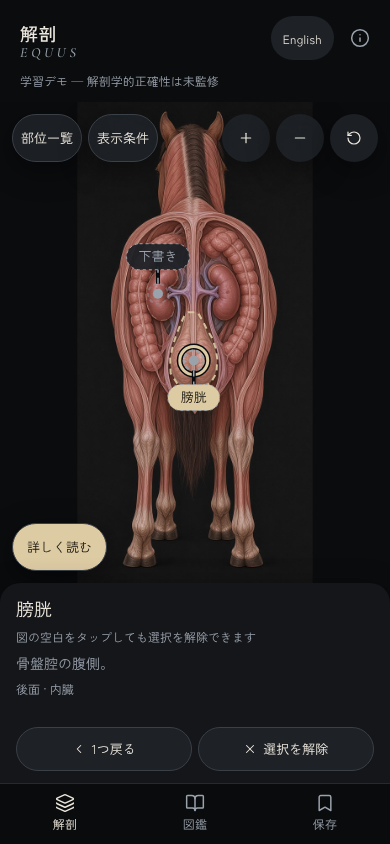
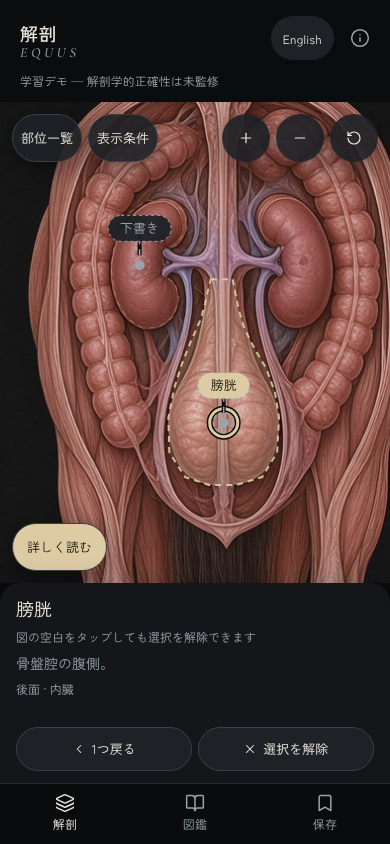
docs(evidence): retake the rear bladder after shots by tapping it in the overview (#215)
Claude-Session: https://claude.ai/code/session_01Cv4a6GTRBmamyWEuPgVasd

diff --git a/e2e/tools/bladder-rear-evidence.spec.ts b/e2e/tools/bladder-rear-evidence.spec.ts
@@ -8,10 +8,13 @@ import { test } from '@playwright/test'
  *     --config playwright.shots.config.ts e2e/tools/bladder-rear-evidence.spec.ts --trace off
  *
  * 「前」は develop の写し、「後」は作業ブランチの写しを同じ手順で撮る。前には後面の膀胱が無いので、その段は飛ばす。
- * 膀胱は体幹の枠の外にあって点が出んので、部位一覧から選ぶ（腎臓の #308 と同じ）。
+ * 膀胱は体幹の枠の中にある（体幹の枠は膀胱の底まで取ってある）。全体表示では場所の点（体幹）が出るだけで、
+ * 部位の点は場所を選んでから出る。そこで、図の上の膀胱そのものを叩いて体幹を選び、出てきた膀胱の点を叩く。
  */
 const OUT = process.env.EQUUS_EVIDENCE_DIR ?? 'test-results/bladder-rear-evidence'
 const PREFIX = process.env.EQUUS_SHOT_PREFIX ?? 'run'
+// 膀胱の上の方の点（切り詰め後の画像座標）。下半分には薄い後肢の札が重なって出るので、札に掛からん所を叩く
+const BLADDER_AT: [number, number] = [290, 580]
 
 test('後面・内臓の膀胱（証跡撮り）', async ({ page }) => {
   test.setTimeout(120_000)
@@ -24,13 +27,31 @@ test('後面・内臓の膀胱（証跡撮り）', async ({ page }) => {
   await page.waitForTimeout(500)
   await page.screenshot({ path: `${OUT}/${PREFIX}-rear-organs-390.png`, fullPage: true })
 
-  // 膀胱は体幹の枠の外にあって点が出んので、部位一覧から選ぶ。前は一覧に膀胱が無いので、一覧の絵だけ撮って終わる
+  // 部位一覧の絵だけ先に撮る（前は一覧に膀胱が無い）
   await page.getByTestId('part-selector').click()
   await page.waitForTimeout(500)
   await page.screenshot({ path: `${OUT}/${PREFIX}-part-list-390.png`, fullPage: true })
-  const row = page.getByText('膀胱', { exact: true }).first()
-  if ((await row.count()) === 0) return
-  await row.click()
+  await page.getByTestId('overlay-close').click()
+  await page.getByTestId('marker-dot-tail').waitFor()
+  await page.waitForTimeout(500)
+
+  // 全体表示で、図の上の膀胱を叩く（画像座標を実 SVG の CTM で画面座標に直す）
+  const pt = await page.getByTestId('anatomy-svg').evaluate((node, [ix, iy]) => {
+    const ctm = (node as SVGSVGElement).getScreenCTM()
+    if (ctm === null) throw new Error('anatomy-svg の getScreenCTM が取得できない')
+    const p = new DOMPoint(ix, iy).matrixTransform(ctm)
+    return { x: p.x, y: p.y }
+  }, BLADDER_AT)
+  await page.mouse.click(pt.x, pt.y)
+  await page.waitForTimeout(800)
+  await page.screenshot({ path: `${OUT}/${PREFIX}-trunk-selected-390.png`, fullPage: true })
+
+  // 前は膀胱が無いので、膀胱の点が出なければここで終わる
+  const dot = page.getByTestId('marker-dot-organ-bladder')
+  if ((await dot.count()) === 0) return
+  const box = await dot.first().boundingBox()
+  if (!box) throw new Error('marker-dot-organ-bladder の矩形が取れん')
+  await page.mouse.click(box.x + box.width / 2, box.y + box.height / 2)
   await page.waitForTimeout(800)
   await page.screenshot({ path: `${OUT}/${PREFIX}-bladder-selected-390.png`, fullPage: true })
 })
